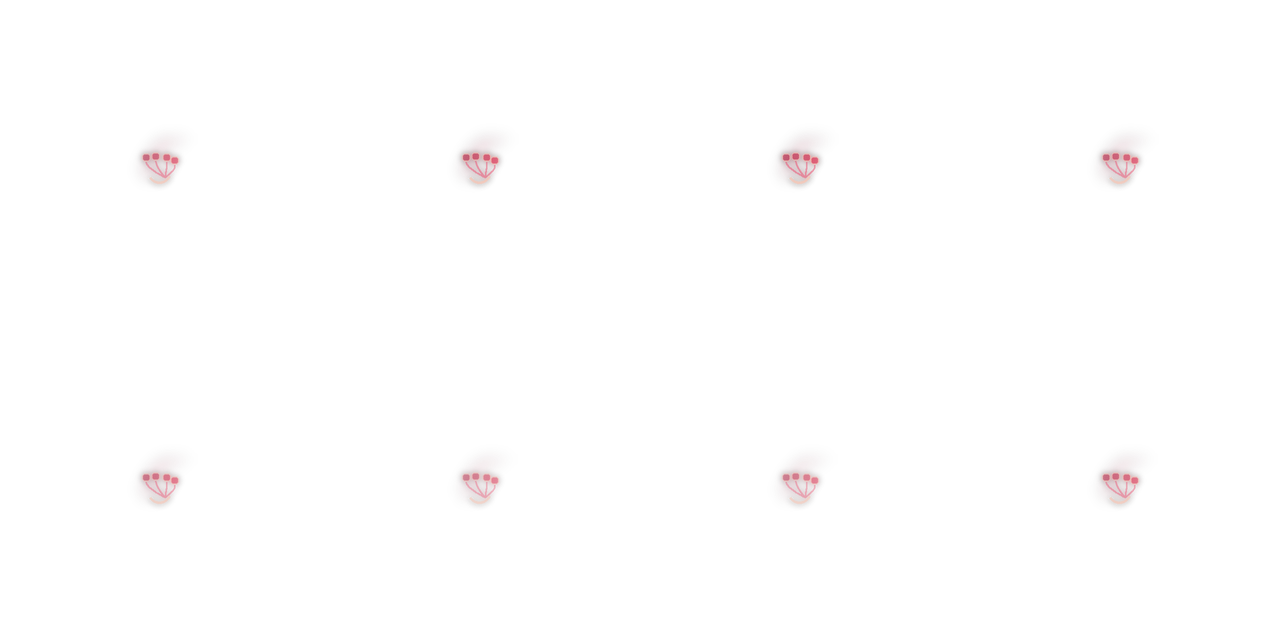
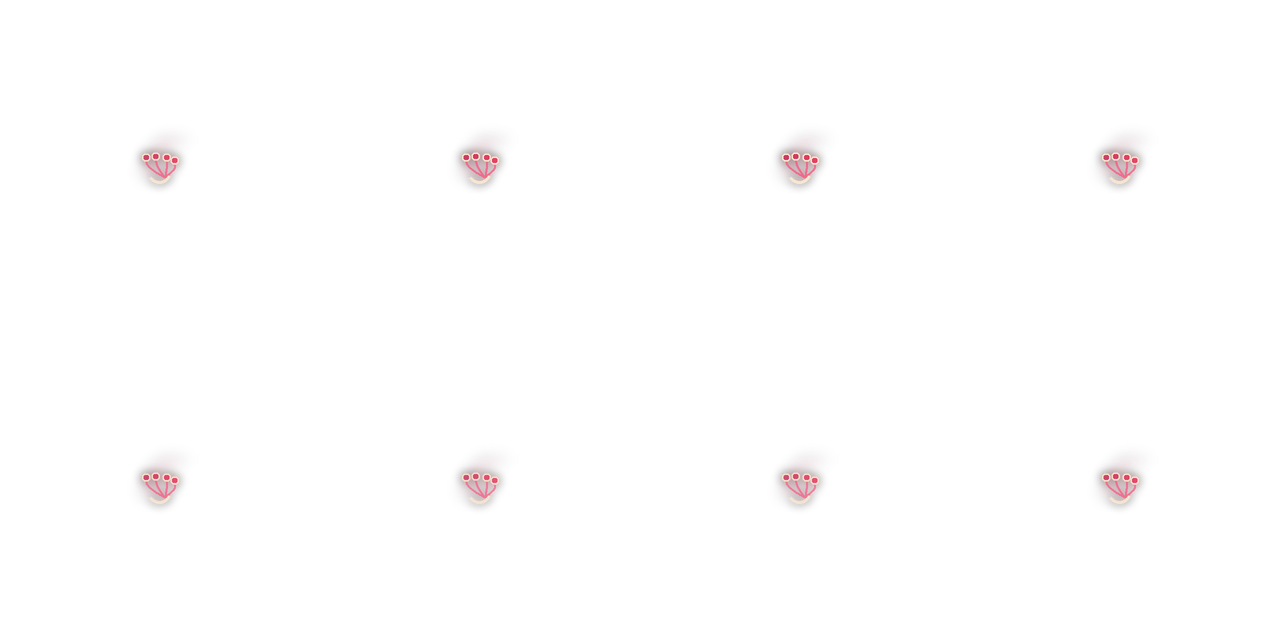
art(fist14): R3B correct native G3.5 art failures without touching approved skill revisions

diff --git a/godot/labs/combat_lab/fist14/r3/code/build_r3_rework.py b/godot/labs/combat_lab/fist14/r3/code/build_r3_rework.py
@@ -49,8 +49,10 @@ def local_flash(target,center,phase,seed,size):
     target.alpha_composite(sm.filter(ImageFilter.GaussianBlur(11)))
     target.alpha_composite(sm)
     orb=new();o=ImageDraw.Draw(orb,'RGBA')
-    o.ellipse((x-8*phase,y-6*phase,x+8*phase,y+6*phase),fill=(255,244,218,round(225*phase)))
-    target.alpha_composite(orb.filter(ImageFilter.GaussianBlur(4)))
+    o.ellipse((x-15*phase,y-10*phase,x+15*phase,y+10*phase),fill=(255,252,239,round(255*phase)))
+    halo=orb.filter(ImageFilter.GaussianBlur(6))
+    target.alpha_composite(halo)
+    target.alpha_composite(orb)
 
 def source_layer(im,src_rect,width,opacity=1.,center=(330,315),shear=0.,stretch=1.,soft_matte=True):
     src=im.crop(src_rect)
@@ -76,7 +78,7 @@ def source_layer(im,src_rect,width,opacity=1.,center=(330,315),shear=0.,stretch=
 def mark(t):
     # An authored fist-imprint for a single MARK, not claw marks or a HUD ring.
     f=new();rng=random.Random(9901+int(t*100))
-    pulse=.78+.14*math.sin(t*math.tau)
+    pulse=.91+.08*math.sin(t*math.tau)
     vapor=new();dv=ImageDraw.Draw(vapor,'RGBA')
     for j in range(5):
         q=j/4
@@ -88,10 +90,10 @@ def mark(t):
     for j in range(4):
         x=292+j*19+(3 if j==2 else 0);y=316+(j-1)**2*2
         d.rounded_rectangle((x-8,y-11,x+8,y+4),radius=6,
-             fill=(186+13*j,24,63,int(150*pulse)),outline=(255,176,162,int(158*pulse)),width=2)
-        d.line(bez((x,y+6),(x+2,y+17),(327-12+j*7,347),(331,355)),fill=(240,68,104,int(128*pulse)),width=3)
-    d.arc((294,317,343,367),25,145,fill=(255,195,175,int(170*pulse)),width=5)
-    f.alpha_composite(layer.filter(ImageFilter.GaussianBlur(6)))
+             fill=(204+11*j,39,86,int(214*pulse)),outline=(255,229,203,int(245*pulse)),width=3)
+        d.line(bez((x,y+6),(x+2,y+17),(327-12+j*7,347),(331,355)),fill=(253,83,125,int(192*pulse)),width=4)
+    d.arc((294,317,343,367),25,145,fill=(255,234,211,int(226*pulse)),width=6)
+    f.alpha_composite(layer.filter(ImageFilter.GaussianBlur(9)))
     f.alpha_composite(layer)
     return f
 
@@ -111,28 +113,30 @@ def frame(im,kind,i,n):
         out.alpha_composite(src,dest=pos)
         if i>=5:local_flash(out,(416,316),.22+.35*t,101+i,size=13+14*t)
     elif kind=='flight':
-        # Three identifiable motion beats: release (compressed), acceleration
-        # (stream pulled backward), final tightening into the fist before contact.
+        # Three distinct hand-authored flowing blood-Qi currents, converging
+        # toward ONE fist. Avoid uniform side-by-side "three-claw" rails.
         accel=t*t*(3-2*t); wave=math.sin(math.pi*t)
-        length=140+int(114*accel)
-        for j in range(5):
-            offset=(j-2)*20
-            a=(84-int(31*accel),312+offset+int(12*math.sin(4*t+j)))
-            b=(185-int(length*.23),315+offset*.75-13*math.sin(j+t*5))
-            c=(273+int(12*t),320+offset*.24)
-            d=(418+int(11*t),325+offset*.08)
-            paint_stroke(out,bez(a,b,c,d),wide=7+(j%2)*2,alpha=round(140+75*wave),hot=j in (1,3))
-        src,pos=source_layer(im,(135,40,1725,838),width=350+int(70*wave),opacity=.72+.22*wave,center=(330+int(13*t),320),shear=8*math.sin(2*t*math.pi))
+        flows=[
+            ((112,258+20*math.sin(5*t)),(168,244-30*wave),(267,292+22*wave),(436,315)),
+            ((92,359+23*math.sin(4*t+1.5)),(134,399-27*wave),(296,344-13*wave),(431,326)),
+            ((128,311+34*math.sin(3.4*t+2.1)),(231,351-45*wave),(301,296+30*wave),(453,322)),
+        ]
+        for j,(a,b,c,d) in enumerate(flows):
+            pts=bez(a,b,c,d)
+            paint_stroke(out,pts,wide=[8,11,4][j],alpha=round([142,156,110][j]+50*wave),hot=j==1)
+        src,pos=source_layer(im,(135,40,1725,838),width=350+int(70*wave),opacity=.76+.22*wave,center=(330+int(13*t),320),shear=11*math.sin(2*t*math.pi))
         out.alpha_composite(src,dest=pos)
-        # Add a small transient knuckle halo, not an extra impact marker.
-        if i>6:local_flash(out,(495+int(16*t),316),.13+.25*(t-.4),201+i,17)
+        # One knuckle light stroke, not a fake additional impact/hit.
+        knuckle=bez((456,301-5*wave),(473,291-6*wave),(501,306+4*wave),(506,325))
+        paint_stroke(out,knuckle,wide=6,alpha=round(195+50*wave),hot=True)
+        if i>6:local_flash(out,(501+int(9*t),321),.18+.25*(t-.4),201+i,24)
     elif kind=='contact':
         # The sprite dissolves into a single impact; visually distinct poses
         # including sharp contact, spread, staggered closure and mark emergence.
         strength=math.sin(math.pi*(.10+.88*t))**.8
         src,pos=source_layer(im,(840,105,1745,826),width=330+int(70*strength),opacity=(1-t)**1.12,center=(309-int(18*t),316),stretch=1+.16*t)
         out.alpha_composite(src,dest=pos)
-        local_flash(out,(446+int(t*12),315),max(.08,1-t**.84),401+i,37+int(55*t))
+        local_flash(out,(446+int(t*12),315),max(.30,1-t**.65),401+i,37+int(74*t))
         for j in range(4):
             # unequal shock filaments deform and break apart, no false hit receipts
             off=j*math.pi/2
@@ -184,6 +188,6 @@ def main():
         display.alpha_composite(im2,(0,y));y+=im2.height
     display=display.crop((0,0,1280,y))
     display.save(ROOT/'review/atlas_static_not_godot.png',optimize=True)
-    print('FIST14_R3_REWORK_STATIC_OK frames=36 phases=4 original_master_sha='+SHA)
+    print('FIST14_R3B_REWORK_STATIC_OK frames=36 phases=4 original_master_sha='+SHA)
     print('G3.5_NOT_EXECUTED G3.7_NOT_APPROVED')
 if __name__=='__main__':main()
